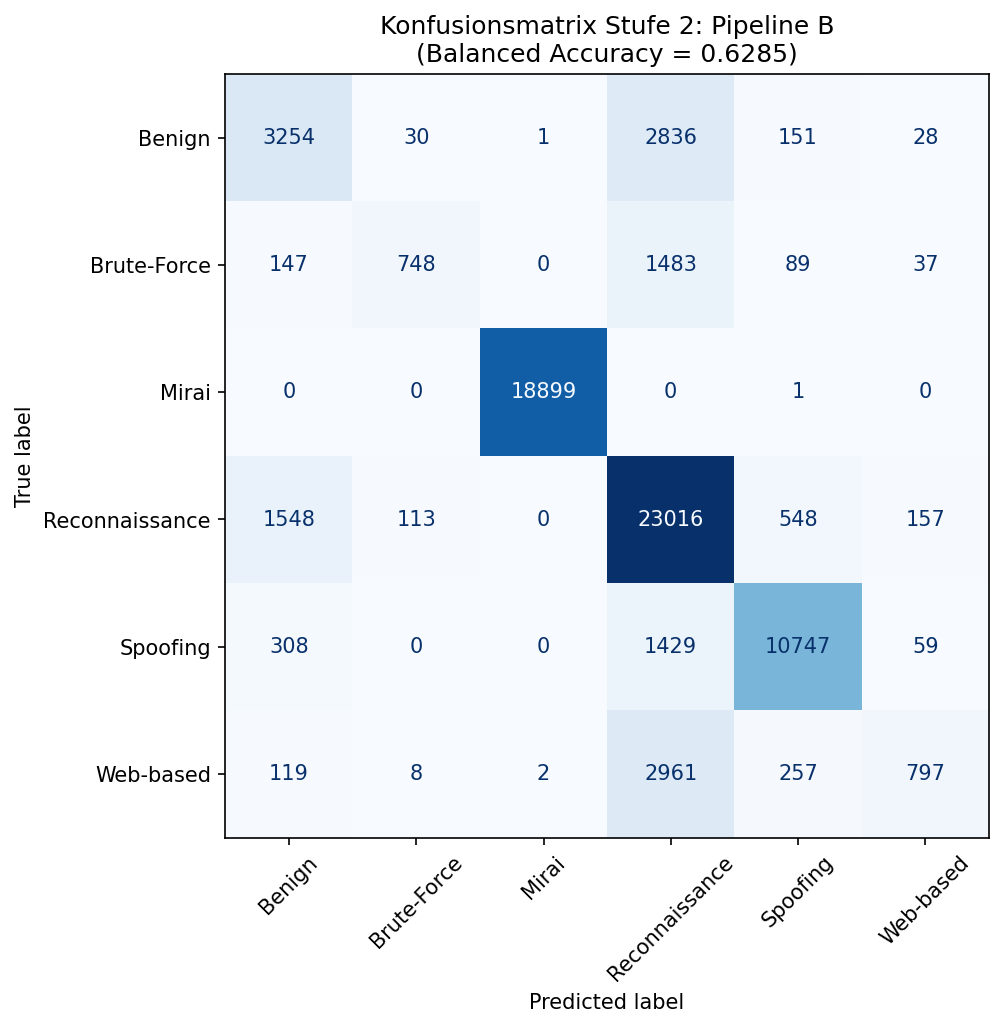
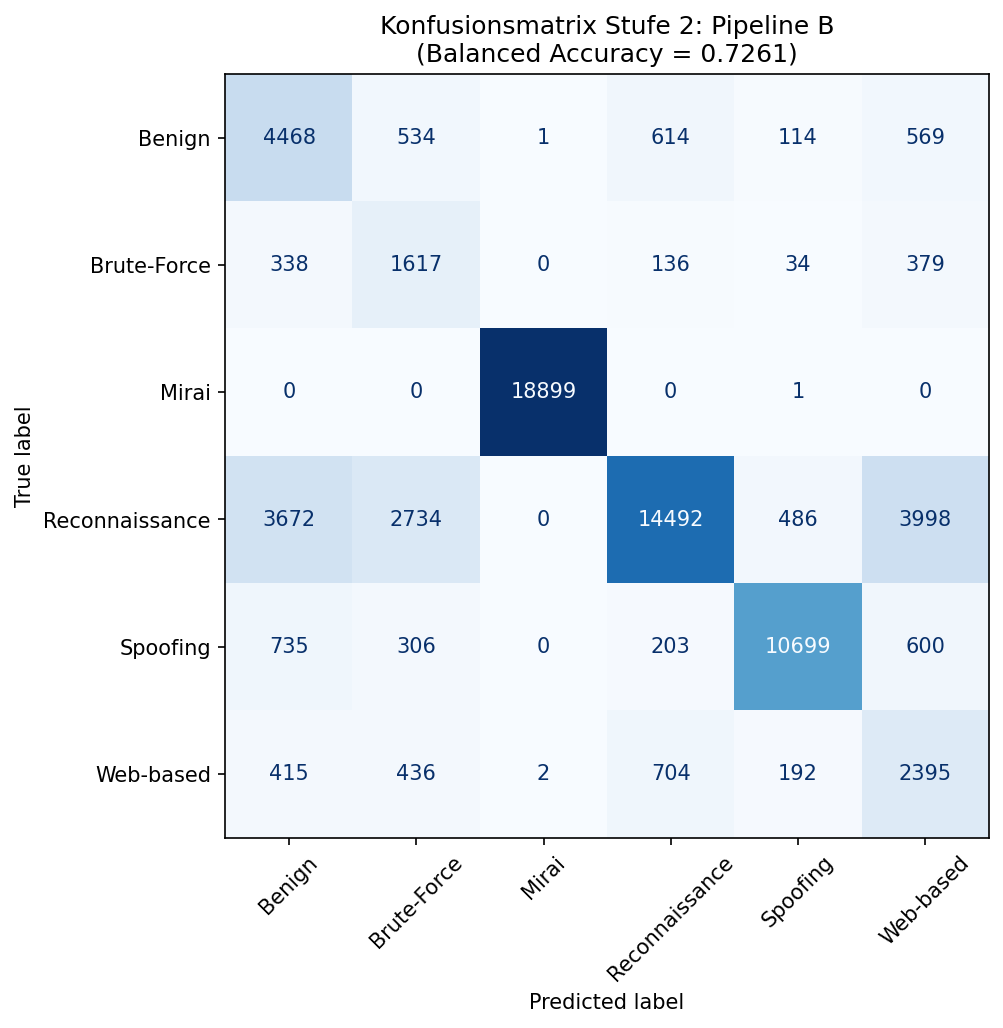
feat(paper): integration Klassengewichtung (sample_weight balanced) -- Issue #3
Resultat cle: BA Stufe 2 Pipeline B 0.6285 -> 0.7261 (+9.76 pts) via sample_weight balanced.
- tab:ergebnisse: ligne B Balanced (BA2=0.7261)
- tab:perclass_b: tradeoff Best HP vs Balanced (Recall par classe)
- tab:shap_top5: features du modele balanced (Number dominant, TCP-flags pour scans)
- Semantische Validierung + Diskussion + Fazit adaptes
- Figure confusion matrix Pipeline A retiree (paper revient a 9 pages)
- Paper compile: 9 pages, 0 ref non resolue, 0 Gedankenstrich

diff --git a/paper-usenix-template-jguimfackjeuna/jguimfackjeuna-evaluation.tex b/paper-usenix-template-jguimfackjeuna/jguimfackjeuna-evaluation.tex
@@ -52,16 +52,18 @@ A (PCA) & Best HP & 0{,}9985 & 0{,}9985 & 0{,}5364 & 0{,}5644 \\
 B (39f) & Standard & 0{,}9993 & 0{,}9993 & 0{,}6301 & 0{,}6670 \\
 B (39f) & GS-Subset & 0{,}9994 & n.\,v. & 0{,}6479 & n.\,v. \\
 B (39f) & Best HP & 0{,}9992 & 0{,}9993 & 0{,}6285 & 0{,}6652 \\
+B (39f) & Balanced & 0{,}9992 & 0{,}9993 & \textbf{0{,}7261} & 0{,}6570 \\
 \bottomrule
 \end{tabular}
 \smallskip\newline
 {\footnotesize BA$_1$, BA$_2$: Balanced Accuracy Stufe~1/2. F1: makro-gemittelt.
 Standard: Standardhyperparameter auf 838.602~Instanzen. GS-Subset:
 Grid-Search-Optimum auf 8.045~Instanzen. Best HP: optimierte Hyperparameter auf
-838.602~Instanzen. Reentrainement Pipeline~B laufend.}
+838.602~Instanzen. Balanced: Best HP plus klassengewichtete Stichproben
+(\texttt{sample\_weight} balanced) in Stufe~2.}
 \end{table}
 
-Tabelle~\ref{tab:ergebnisse} zeigt die Ergebnisse in drei Konfigurationen.
+Tabelle~\ref{tab:ergebnisse} zeigt die Ergebnisse in vier Konfigurationen.
 Pipeline~B uebertrifft Pipeline~A in allen Konfigurationen und mit allen Hyperparametern.
 Das Reentrainement auf dem vollstaendigen Datensatz liefert fuer beide Pipelines eine
 geringfuegig niedrigere Stufe-2-\ba{} als die Standardparameter:
@@ -70,6 +72,18 @@ Pipeline~B sinkt von 0{,}6301 auf 0{,}6285~($-$0{,}16~Punkte).
 Dieses Ergebnis belegt, dass die auf dem Teilmengedatensatz (8.045~Instanzen) gefundenen
 Hyperparameter auf dem vollstaendigen Datensatz nicht besser generalisieren; dies ist
 ein wichtiger methodischer Befund fuer zukunftige Studien~\cite{hosseini2025imbalance}.
+
+\textbf{Klassengewichtung.}
+Da \gb{} keinen \texttt{class\_weight}-Parameter besitzt, werden die Trainingsinstanzen
+der Stufe~2 ueber \texttt{sample\_weight} invers zur Klassenhaeufigkeit gewichtet
+(\glqq{}balanced\grqq{}).
+Diese Massnahme hebt die \ba{} von Stufe~2 in Pipeline~B von 0{,}6285 auf
+\textbf{0{,}7261}~($+$9{,}76~Punkte) und reduziert die Diskrepanz zwischen Accuracy
+(0{,}7534) und \ba{} (0{,}7261) auf 0{,}0273.
+Die Klassengewichtung ist damit deutlich wirksamer als die Hyperparameteroptimierung.
+Sie adressiert das Klassenungleichgewicht direkt auf der Ebene der Verlustfunktion und
+verbessert die Erkennung der seltenen Angriffsklassen erheblich (siehe
+Tabelle~\ref{tab:perclass_b}).
 
 Die optimierten Hyperparameter der Grid Search sind in Tabelle~\ref{tab:best_hp}
 zusammengefasst.
@@ -146,49 +160,46 @@ Dieser Befund stimmt mit der Erwartung ueberein, dass die Projektion auf 16 Haup
 klassentrennende Information verliert, die bei seltenen Angriffsklassen besonders relevant
 ist.
 
-Tabelle~\ref{tab:perclass_b} zeigt die Klassenmetriken fuer Pipeline~B.
-Gegenueber Pipeline~A verbessert sich insbesondere der Recall von Spoofing (0{,}857 vs.\
-0{,}642) und Web-based (0{,}192 vs.\ 0{,}065); Brute-Force bleibt mit $R$\,=\,0{,}299
-schwach.
-Der Accuracy-\ba{}-Gap betraegt 0{,}195 (Accuracy\,=\,0{,}824, BA\,=\,0{,}629).
+Tabelle~\ref{tab:perclass_b} stellt den klassenweisen Recall von Pipeline~B mit Best HP
+und mit Klassengewichtung gegenueber.
+Die Klassengewichtung verbessert den Recall der seltenen Klassen drastisch:
+Brute-Force steigt von 0{,}299 auf 0{,}646, Web-based von 0{,}192 auf 0{,}578 und
+Benign von 0{,}517 auf 0{,}709.
+Diese Gewinne werden durch einen Rueckgang bei Reconnaissance (0{,}907 auf 0{,}571)
+erkauft, waehrend Mirai (perfekt) und Spoofing (hoch) stabil bleiben.
+Der Kompromiss faellt insgesamt positiv aus, da die \ba{} als Mittel der
+klassenweisen Recall-Werte von 0{,}6285 auf 0{,}7261 steigt.
 
 \begin{table}[h]
 \centering
-\caption{Precision, Recall, F1 pro Klasse: Stufe~2 Pipeline~B (Best HP)}
+\caption{Recall pro Klasse: Stufe~2 Pipeline~B, Best HP gegen Klassengewichtung}
 \label{tab:perclass_b}
-\begin{tabular}{lccc}
+\begin{tabular}{lcc}
 \toprule
-Klasse & P & R & F1 \\
+Klasse & R (Best HP) & R (Balanced) \\
 \midrule
-Benign       & 0{,}605 & 0{,}517 & 0{,}557 \\
-Brute-Force  & 0{,}832 & 0{,}299 & 0{,}440 \\
-Mirai        & 1{,}000 & 1{,}000 & \textbf{1{,}000} \\
-Reconnaissance & 0{,}726 & 0{,}907 & 0{,}806 \\
-Spoofing     & \textbf{0{,}911} & \textbf{0{,}857} & \textbf{0{,}883} \\
-Web-based    & 0{,}739 & 0{,}192 & 0{,}305 \\
+Benign         & 0{,}517 & \textbf{0{,}709} \\
+Brute-Force    & 0{,}299 & \textbf{0{,}646} \\
+Mirai          & 1{,}000 & 1{,}000 \\
+Reconnaissance & \textbf{0{,}907} & 0{,}571 \\
+Spoofing       & 0{,}857 & 0{,}853 \\
+Web-based      & 0{,}192 & \textbf{0{,}578} \\
+\midrule
+\ba{}          & 0{,}6285 & \textbf{0{,}7261} \\
 \bottomrule
 \end{tabular}
 \smallskip\newline
-{\footnotesize Accuracy\,=\,0{,}824, BA\,=\,0{,}629 (Gap\,=\,0{,}195).}
+{\footnotesize R: Recall (Sensitivitaet). Balanced verbessert drei seltene Klassen,
+mit Einbusse bei Reconnaissance. Accuracy Balanced\,=\,0{,}7534.}
 \end{table}
 
 Abbildung~\ref{fig:cm_stage2_b} zeigt die Konfusionsmatrix von Stufe~2 fuer Pipeline~B
-nach dem Reentrainement mit optimierten Hyperparametern.
-
-% Konfusionsmatrix Stufe 2 Pipeline A (verfuegbar: figures/confusion_matrix_stage2_pipelineA.png)
-% Konfusionsmatrix Stufe 2 Pipeline B: nach Reentrainement einfuegen
-\begin{figure}[h]
-\centering
-\includegraphics[width=\columnwidth]{confusion_matrix_stage2_pipelineA}
-\caption{Konfusionsmatrix Stufe~2, Pipeline~A (PCA, Best HP).
-Bewertung auf wahren Nicht-DoS-Testinstanzen (69.773 Instanzen).}
-\label{fig:cm_stage2_a}
-\end{figure}
+mit Klassengewichtung (Bewertung auf 69.773 wahren Nicht-DoS-Testinstanzen).
 
 \begin{figure}[h]
 \centering
 \includegraphics[width=\columnwidth]{confusion_matrix_stage2_pipelineB}
-\caption{Konfusionsmatrix Stufe~2, Pipeline~B (39 Originalmerkmale, Best HP).}
+\caption{Konfusionsmatrix Stufe~2, Pipeline~B (39 Originalmerkmale, klassengewichtet).}
 \label{fig:cm_stage2_b}
 \end{figure}
 
@@ -229,17 +240,17 @@ Kombinationen der Originalmerkmale sind.
 \toprule
 Klasse & Top-5 Features (absteigend nach $\overline{|\phi_i|}$) \\
 \midrule
-Benign      & \texttt{HTTPS}, \texttt{Number}, \texttt{Max}, \texttt{syn\_flag\_number}, \texttt{Rate} \\
-Brute-Force & \texttt{Max}, \texttt{Number}, \texttt{Rate}, \texttt{Min}, \textbf{\texttt{SSH}} \\
-Mirai       & \texttt{Number}, \texttt{Protocol\_Type}, \texttt{Min}, \texttt{TCP}, \texttt{Max} \\
-Recon.      & \texttt{Number}, \texttt{Protocol\_Type}, \texttt{Min}, \texttt{syn\_flag\_number}, \texttt{Max} \\
-Spoofing    & \texttt{Min}, \texttt{Number}, \texttt{Max}, \texttt{Protocol\_Type}, \texttt{Rate} \\
-Web-based   & \texttt{Number}, \texttt{Rate}, \texttt{Max}, \texttt{Protocol\_Type}, \texttt{syn\_flag\_number} \\
+Benign      & \texttt{HTTPS}, \texttt{Number}, \texttt{Max}, \texttt{syn\_flag\_number}, \texttt{Header\_Length} \\
+Brute-Force & \texttt{Number}, \texttt{Min}, \texttt{Max}, \texttt{rst\_flag\_number}, \texttt{Rate} \\
+Mirai       & \texttt{Number}, \texttt{Protocol\_Type}, \texttt{Min}, \texttt{rst\_flag\_number}, \texttt{syn\_flag\_number} \\
+Recon.      & \texttt{rst\_flag\_number}, \texttt{Number}, \texttt{syn\_flag\_number}, \texttt{Protocol\_Type}, \texttt{Min} \\
+Spoofing    & \texttt{Min}, \texttt{Number}, \texttt{Max}, \texttt{Rate}, \texttt{Protocol\_Type} \\
+Web-based   & \texttt{Number}, \texttt{Protocol\_Type}, \texttt{rst\_flag\_number}, \texttt{HTTPS}, \texttt{Max} \\
 \bottomrule
 \end{tabular}
 \smallskip\newline
 {\footnotesize Stufe~1 (DoS/DDoS): \texttt{Number}, \texttt{Protocol\_Type}, \texttt{UDP}, \texttt{AVG}, \texttt{Min}.
-SSH bei Brute-Force entspricht der bekannten Angriffssignatur~\cite{neto2023ciciot2023}.}
+\shap{}-Werte des klassengewichteten Pipeline-B-Modells.}
 \end{table}
 
 \textbf{Semantische Validierung.}
@@ -247,14 +258,16 @@ Die \shap{}-Feature-Importance-Ranglisten werden mit bekannten Netzwerksignature
 verglichen (vgl.\ Tabelle~\ref{tab:shap_top5}).
 Fuer Stufe~1 (DoS/DDoS) dominieren \texttt{Number} und \texttt{Protocol\_Type}, was mit
 Flutangriffen und Protokollmissbrauch konsistent ist~\cite{neto2023ciciot2023}.
-Das Merkmal \texttt{SSH} erscheint in den Top-5 fuer Brute-Force, was der bekannten
-Signatur von Dictionary-Brute-Force-Angriffen auf SSH-Dienste entspricht.
-Reconnaissance und Mirai werden beide primaer durch \texttt{Number} und
-\texttt{Protocol\_Type} erklaert, was konsistent mit Scan-Aktivitaet und Flood-Verhalten
-ist.
+Die Verbindungsanzahl \texttt{Number} ist in Stufe~2 das klassenuebergreifend wichtigste
+Merkmal, was die Bedeutung des Verbindungsvolumens fuer die Angriffsklassifikation
+unterstreicht.
+Reconnaissance und Mirai werden zusaetzlich durch die TCP-Flags \texttt{rst\_flag\_number}
+und \texttt{syn\_flag\_number} erklaert, was mit Scan-Aktivitaet und SYN-basierten
+Flood-Mustern konsistent ist~\cite{neto2023ciciot2023}.
 Spoofing wird nicht primaer durch \texttt{ARP} oder \texttt{ICMP} erklaert, sondern durch
-aggregierte Statistiken (\texttt{Min}, \texttt{Number}, \texttt{Max}); dies koennte auf
-Datensatz-Korrelationsartefakte hindeuten, die einer weiteren Untersuchung beduerften.
+aggregierte Paketstatistiken (\texttt{Min}, \texttt{Number}, \texttt{Max}); dies koennte
+auf Korrelationsartefakte im Datensatz hindeuten, die einer vertieften Untersuchung
+beduerften.
 
 \textbf{Ablation Study SHAP.}
 Der Vergleich der \shap{}-Erklaerungen zwischen Pipeline~A und Pipeline~B zeigt den
@@ -304,7 +317,7 @@ PC-Komponenten tragen keine semantische Bedeutung.}
 \begin{figure}[h]
 \centering
 \includegraphics[width=\columnwidth]{shap_global_stage2_pipelineB}
-\caption{Globale \shap{}-Feature-Importance: Stufe~2, Pipeline~B.
-\texttt{Number} dominiert alle Klassen; \texttt{SSH} bestaetigt Brute-Force-Signatur.}
+\caption{Globale \shap{}-Feature-Importance: Stufe~2, Pipeline~B (klassengewichtet).
+\texttt{Number} dominiert klassenuebergreifend; TCP-Flags erklaeren Scan- und Flood-Muster.}
 \label{fig:shap_global_b}
 \end{figure}

diff --git a/paper-usenix-template-jguimfackjeuna/jguimfackjeuna-conclusion.tex b/paper-usenix-template-jguimfackjeuna/jguimfackjeuna-conclusion.tex
@@ -9,8 +9,12 @@ Die Ablation Study liefert ein klar messbares Ergebnis: \pca{} reduziert die \ba
 Stufe~2 um 8{,}21~Prozentpunkte (Pipeline~B: 0{,}6301 gegenueber Pipeline~A: 0{,}5480
 mit Standardparametern).
 Gleichzeitig trainiert Pipeline~B ohne \pca{} um 583~Sekunden schneller.
-Die Grid-Search-Optimierung verbessert die \ba{} von Stufe~2 in Pipeline~B um weitere
-1{,}78~Prozentpunkte auf 0{,}6479 (auf einem Teilmengedatensatz von 8.045~Instanzen).
+Die wirksamste Einzelmassnahme gegen das Klassenungleichgewicht ist die Klassengewichtung
+(\texttt{sample\_weight} balanced) in Stufe~2: Sie hebt die \ba{} von Pipeline~B von
+0{,}6285 auf 0{,}7261~($+$9{,}76~Prozentpunkte) und verbessert den Recall der seltenen
+Klassen Brute-Force und Web-based um mehr als das Doppelte.
+Die Grid-Search-Optimierung allein bringt dagegen keinen Gewinn auf dem vollstaendigen
+Datensatz.
 Diese Ergebnisse bestaetigen die Ausgangshypothese: \pca{} beeintraechtigt die
 Mehrklassenklassifikation messbar und gleichzeitig die semantische Interpretierbarkeit
 der \shap{}-Erklaerungen, da Hauptkomponenten keine direkte Entsprechung zu

diff --git a/paper-usenix-template-jguimfackjeuna/jguimfackjeuna-discussion.tex b/paper-usenix-template-jguimfackjeuna/jguimfackjeuna-discussion.tex
@@ -53,9 +53,10 @@ Die Ablation Study erbringt den qualitativen Nachweis: Pipeline~A-Erklaerungen n
 PC1, PC2, \ldots als wichtigste Features, Pipeline~B benennt konkrete Netzwerkmerkmale,
 die mit bekannten Angriffssignaturen vergleichbar sind.
 
-Die semantische Validierung bestaetigt die Erklaerungsqualitaet teilweise: Das Merkmal
-\texttt{SSH} erscheint in den Top-5-Features der Brute-Force-Klasse, was der bekannten
-Signatur von Dictionary-Angriffen auf SSH-Dienste entspricht~\cite{neto2023ciciot2023}.
+Die semantische Validierung bestaetigt die Erklaerungsqualitaet teilweise: Die TCP-Flags
+\texttt{rst\_flag\_number} und \texttt{syn\_flag\_number} erscheinen in den Top-5-Features
+von Reconnaissance und Mirai, was den SYN-basierten Scan- und Flood-Signaturen
+entspricht~\cite{neto2023ciciot2023}.
 Demgegenueber wird Spoofing nicht primaer durch \texttt{ARP} oder \texttt{ICMP} erklaert,
 sondern durch aggregierte Paketstatistiken, was auf Korrelationsartefakte im Datensatz
 hindeutet und einer vertieften Untersuchung beduerfte.
